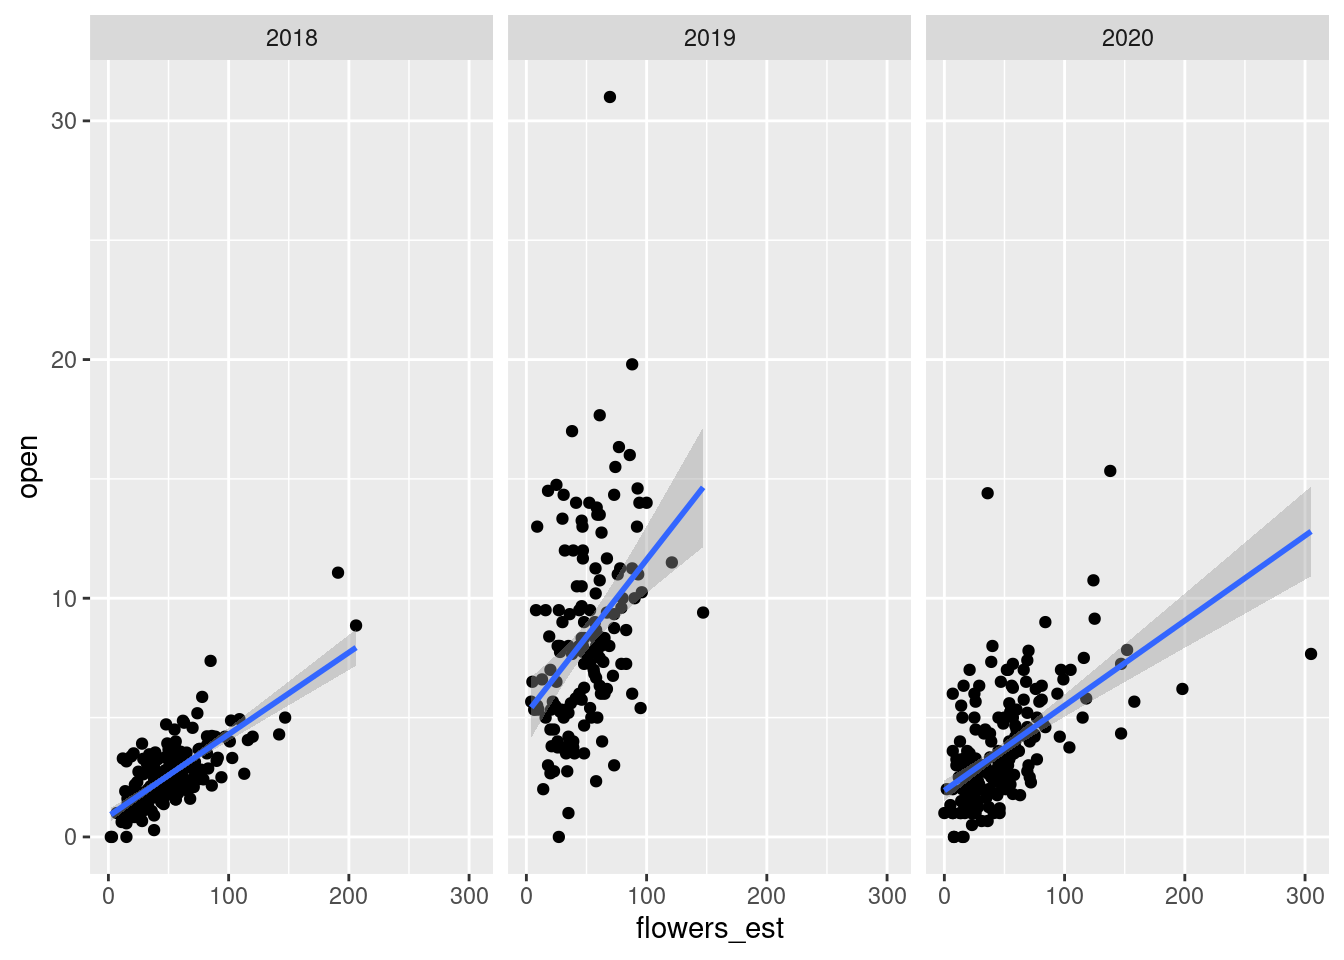
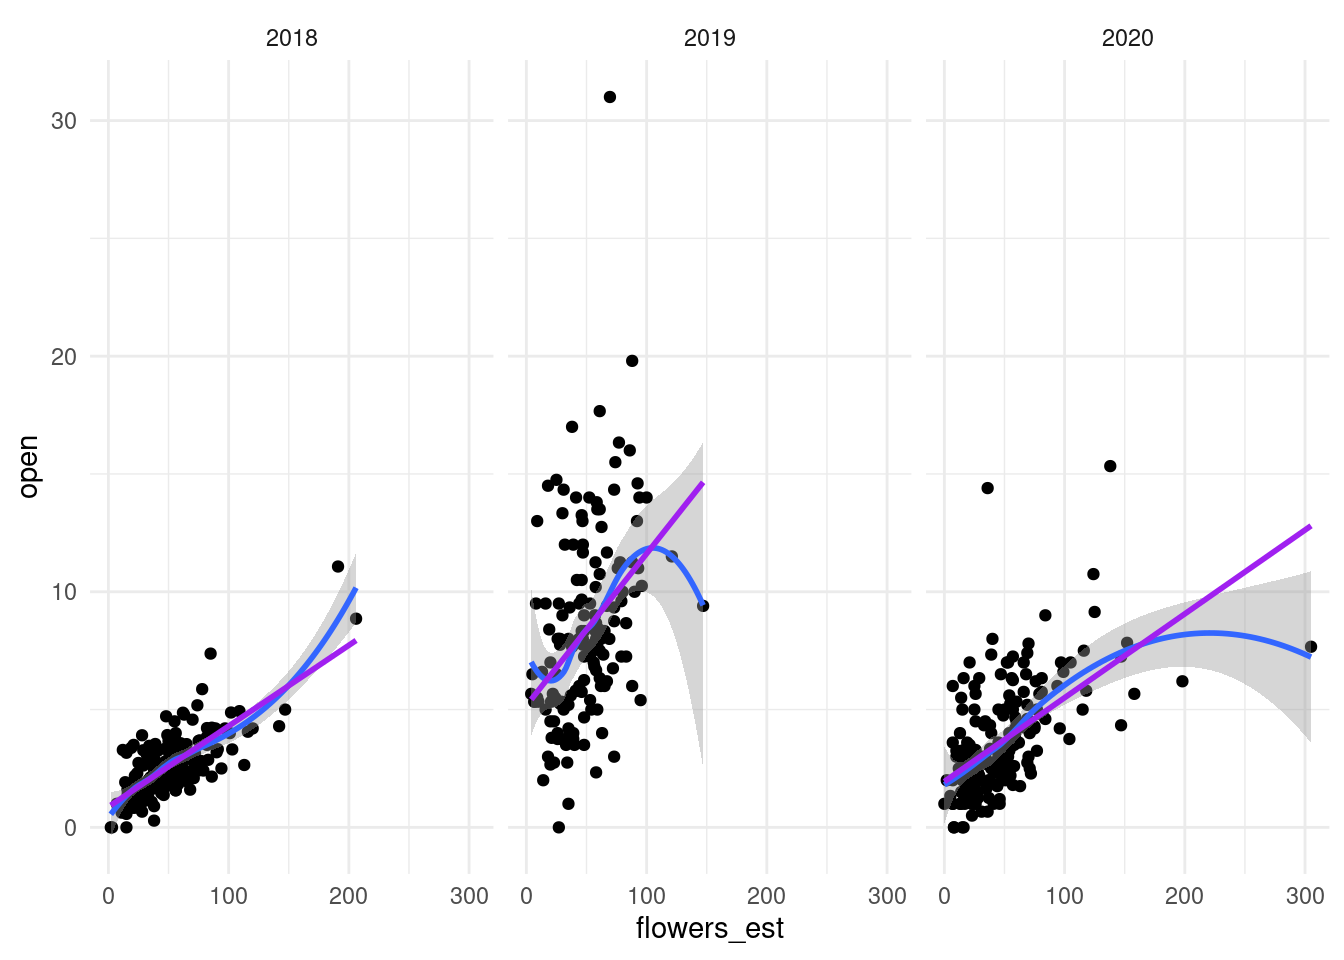
Compare fly eggs and fly fruits

diff --git a/maxfield_JP_analyses.html b/maxfield_JP_analyses.html
@@ -11,7 +11,7 @@
 
 <meta name="author" content="John Powers" />
 
-<meta name="date" content="2022-02-24" />
+<meta name="date" content="2022-03-09" />
 
 <title>Maxfield Meadow Ipomopsis Experiment</title>
 
@@ -255,7 +255,7 @@ div.tocify {
 
 <h1 class="title toc-ignore">Maxfield Meadow Ipomopsis Experiment</h1>
 <h4 class="author"><a href="http://sites.uci.edu/powers/">John Powers</a></h4>
-<h4 class="date">2022-02-24</h4>
+<h4 class="date">2022-03-09</h4>
 
 </div>
 
@@ -7789,15 +7789,61 @@ map(set_names(leaftraits),
   labs(x=&quot;Day of year&quot;, y=&quot;Plant (sorted by subplot)&quot;, fill=&quot;Observations&quot;, color=&quot;Plot&quot;, title=paste(y,&quot;phenology&quot;))
   print(p)})</code></pre>
 <p><img src="images/check_phenology-1.png" width="672" /><img src="images/check_phenology-2.png" width="672" /><img src="images/check_phenology-3.png" width="672" /></p>
-<pre class="r"><code>ggplot(mnps.plantyr, aes(x=flowers_est, y=open)) + geom_point() + facet_wrap(vars(year)) + geom_smooth(method=&quot;lm&quot;)</code></pre>
+</div>
+<div id="weekly-vs.-total-fly-and-flower-counts" class="section level1">
+<h1>Weekly vs. total fly and flower counts</h1>
+<pre class="r"><code>ggplot(mnps.plantyr, aes(x=flowers_est, y=open)) + geom_point() + facet_wrap(vars(year)) + geom_smooth(span=0.7) + geom_smooth(method=&quot;lm&quot;, se=F, col=&quot;purple&quot;) + theme_minimal()</code></pre>
 <p><img src="images/phenology_versus_total-1.png" width="672" /></p>
-<pre class="r"><code>lm(open ~ flowers_est * year, data = mnps.plantyr) %&gt;% emtrends(~year, var=&quot;flowers_est&quot;) %&gt;% tidy</code></pre>
+<pre class="r"><code>lm(open ~ flowers_est * year, data = mnps.plantyr) %&gt;% emtrends(~year, var=&quot;flowers_est&quot;) %&gt;% tidy %&gt;% 
+  kable(caption=&quot;Slope of average open flowers vs. total number of flowers&quot;)</code></pre>
+<table>
+<caption>Slope of average open flowers vs. total number of flowers</caption>
+<thead>
+<tr class="header">
+<th align="left">year</th>
+<th align="right">flowers_est.trend</th>
+<th align="right">std.error</th>
+<th align="right">df</th>
+<th align="right">statistic</th>
+<th align="right">p.value</th>
+</tr>
+</thead>
+<tbody>
+<tr class="odd">
+<td align="left">2018</td>
+<td align="right">0.0343</td>
+<td align="right">0.0061</td>
+<td align="right">520</td>
+<td align="right">5.606</td>
+<td align="right">0</td>
+</tr>
+<tr class="even">
+<td align="left">2019</td>
+<td align="right">0.0645</td>
+<td align="right">0.0081</td>
+<td align="right">520</td>
+<td align="right">8.009</td>
+<td align="right">0</td>
+</tr>
+<tr class="odd">
+<td align="left">2020</td>
+<td align="right">0.0356</td>
+<td align="right">0.0047</td>
+<td align="right">520</td>
+<td align="right">7.636</td>
+<td align="right">0</td>
+</tr>
+</tbody>
+</table>
+<pre class="r"><code>ggplot(mnps.plantyr, aes(x=fruits_fly_no_seeds, y=eggs)) + geom_point() + facet_wrap(vars(year)) + geom_smooth(span=0.7) + geom_smooth(method=&quot;lm&quot;, se=F, col=&quot;purple&quot;) + theme_minimal() + ylim(c(0,5))</code></pre>
+<p><img src="images/phenology_versus_total-2.png" width="672" /></p>
+<pre class="r"><code>lm(eggs ~ fruits_fly_no_seeds * year, data = mnps.plantyr) %&gt;% emtrends(~year, var=&quot;fruits_fly_no_seeds&quot;) %&gt;% tidy</code></pre>
 <pre><code># A tibble: 3 × 6
-  year  flowers_est.trend std.error    df statistic  p.value
-  &lt;chr&gt;             &lt;dbl&gt;     &lt;dbl&gt; &lt;dbl&gt;     &lt;dbl&gt;    &lt;dbl&gt;
-1 2018             0.0343   0.00612   520      5.61 3.36e- 8
-2 2019             0.0645   0.00805   520      8.01 7.63e-15
-3 2020             0.0356   0.00466   520      7.64 1.08e-13</code></pre>
+  year  fruits_fly_no_seeds.trend std.error    df statistic  p.value
+  &lt;chr&gt;                     &lt;dbl&gt;     &lt;dbl&gt; &lt;dbl&gt;     &lt;dbl&gt;    &lt;dbl&gt;
+1 2018                     0.0958    0.0191   517      5.02 7.09e- 7
+2 2019                     0.103     0.0110   517      9.41 1.66e-19
+3 2020                     0.0807    0.0101   517      8.00 8.41e-15</code></pre>
 <pre class="r"><code>ggplot(ph %&gt;% drop_na(height_cm), aes(x=julian, y=height_cm, shape=snow, color=water))+ geom_point() + geom_path(aes(group=plantid))+
   facet_wrap(vars(year), ncol=1)+
     geom_vline(data=meltdates, aes(xintercept=sun_date, linetype=snow))+
